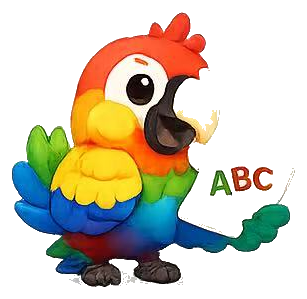
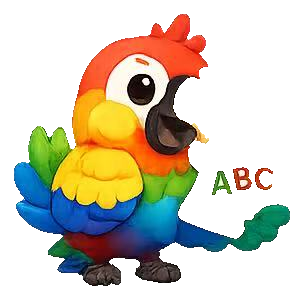
切图去白边 + 文字昵称随所选动物变(petN/applyPetText)
- 6 只透明头像重切，边缘洪填+收缩1px 去掉白边毛边
- 给每只伙伴加昵称(nick)，'小狐狸'文字统一改用 petN()(取名优先)
- 引导语/拍照提示/作业空状态/页脚等可见'小狐狸'随所选动物切换

diff --git a/math-analyzer.html b/math-analyzer.html
@@ -1166,11 +1166,11 @@
   <!-- ============ 视图：学习（hub）============ -->
   <div id="view-study" class="view">
     <div class="view-title">📚 学习</div>
-    <div class="fox-guide"><img class="fg-fox-img" data-func="homework" src="icons/pets/ic-fox-homework.png" alt="小狐狸"><span class="fg-text"><b>今天想学点什么？</b>小狐狸都在这儿陪着你～</span></div>
+    <div class="fox-guide"><img class="fg-fox-img" data-func="homework" src="icons/pets/ic-fox-homework.png" alt="小狐狸"><span class="fg-text"><b>今天想学点什么？</b><span class="pn">小狐狸</span>都在这儿陪着你～</span></div>
     <div class="study-grid">
       <!-- 错题辅导(搜题)入口已暂时隐藏；加回只需恢复下面这张卡：
       <div class="study-card sc-err" data-go="mistakes"><span class="sc-ico">📝</span><div class="sc-name">错题辅导</div><div class="sc-sub">拍卷子，一步步教懂</div></div> -->
-      <div class="study-card sc-dict" data-go="dictation"><img class="sc-ico-img" data-func="dict" src="icons/pets/ic-fox-dict.png" alt=""><div class="sc-name">听写小帮手</div><div class="sc-sub">小狐狸报读，你来写</div></div>
+      <div class="study-card sc-dict" data-go="dictation"><img class="sc-ico-img" data-func="dict" src="icons/pets/ic-fox-dict.png" alt=""><div class="sc-name">听写小帮手</div><div class="sc-sub"><span class="pn">小狐狸</span>报读，你来写</div></div>
       <div class="study-card sc-hw" data-go="homework"><img class="sc-ico-img" data-func="homework" src="icons/pets/ic-fox-homework.png" alt=""><div class="sc-name">今日任务</div><div class="sc-sub">记作业、打勾、攒经验</div></div>
     </div>
   </div>
@@ -1178,7 +1178,7 @@
   <!-- ============ 视图：错题辅导 ============ -->
   <div id="view-mistakes" class="view">
     <div class="view-title">📝 错题辅导</div>
-    <div class="fox-guide"><img class="fg-fox-img" data-func="mistakes" src="icons/pets/ic-fox-mistakes.png" alt="小狐狸"><span class="fg-text"><b>小狐狸来帮你分析错题吧！</b>拍张卷子，我一步一步教你弄懂～</span></div>
+    <div class="fox-guide"><img class="fg-fox-img" data-func="mistakes" src="icons/pets/ic-fox-mistakes.png" alt="小狐狸"><span class="fg-text"><b><span class="pn">小狐狸</span>来帮你分析错题吧！</b>拍张卷子，我一步一步教你弄懂～</span></div>
     <div class="mode-switch subject-switch" id="subject-switch">
       <button class="mode-btn active" data-subject="math">📐 数学</button>
       <button class="mode-btn" data-subject="english">🔤 英语</button>
@@ -1332,7 +1332,7 @@
   <!-- ============ 视图：听写 ============ -->
   <div id="view-dictation" class="view">
     <div class="view-title">🔊 听写小帮手</div>
-    <div class="fox-guide"><img class="fg-fox-img" data-func="dict" src="icons/pets/ic-fox-dict.png" alt="小狐狸"><span class="fg-text"><b>准备好了吗？</b>小狐狸来帮你听写，一个一个念给你写～</span></div>
+    <div class="fox-guide"><img class="fg-fox-img" data-func="dict" src="icons/pets/ic-fox-dict.png" alt="小狐狸"><span class="fg-text"><b>准备好了吗？</b><span class="pn">小狐狸</span>来帮你听写，一个一个念给你写～</span></div>
 
     <!-- 开始听写：主操作，醒目大按钮 -->
     <section class="card">
@@ -1498,7 +1498,7 @@
   </section>
 
   <footer>
-    小狐狸 AI 学习助手 · v53（错题大相机卡 + 听写大按钮 + 两行问候·移植示例）
+    <span class="pn">小狐狸</span>学习助手 · build 0617
   </footer>
 
   <!-- 底部导航：首页 / 学习 / 成长 / 我的 -->
@@ -2329,13 +2329,13 @@ $('btn-recognize').addEventListener('click', async () => {
   const original = btn.textContent;
   const texts = [];
   for (let i = 0; i < images.length; i++) {
-    btn.innerHTML = `<span class="spinner"></span>小狐狸在看 ${i + 1}/${images.length} 张…`;
+    btn.innerHTML = `<span class="spinner"></span>${petN()}在看 ${i + 1}/${images.length} 张…`;
     try {
       const t = await recognizeImage(images[i]);
       if (t && t.trim()) texts.push(t.trim());
     } catch (err) {
       btn.innerHTML = original; btn.disabled = false;
-      alert('第 ' + (i + 1) + ' 张小狐狸没看清：' + (err.message || err));
+      alert('第 ' + (i + 1) + ' 张' + petN() + '没看清：' + (err.message || err));
       return;
     }
   }
@@ -3014,6 +3014,7 @@ function go(view) {
   [...document.querySelectorAll('.bn-item')].forEach(b => b.classList.toggle('active', b.dataset.nav === tab));
   try { window.scrollTo(0, 0); } catch (_) {}
   if (typeof applyPetIcons === 'function') applyPetIcons();   // 功能图标跟随当前伙伴
+  if (typeof applyPetText === 'function') applyPetText();      // "小狐狸"等文字跟随当前伙伴昵称
   if (view !== 'dictation' && typeof dictStop === 'function') dictStop();   // 离开听写 → 停止报读
   if (view === 'home') renderHome();
   else if (view === 'petselect') renderPetSelect();
@@ -3186,7 +3187,7 @@ $('dict-reveal').addEventListener('click', () => {
 });
 $('dict-photo').addEventListener('change', async (e) => {
   const file = e.target.files && e.target.files[0]; e.target.value = ''; if (!file) return;
-  const lab = $('dict-photo-label'); const old = lab.textContent; lab.textContent = '小狐狸在看…';
+  const lab = $('dict-photo-label'); const old = lab.textContent; lab.textContent = petN() + '在看…';
   try {
     const dataURL = await downscaleDataURL(await fileToDataURL(file), 1500, 0.85);
     const words = await recognizeWordList(dataURL, $('dict-subject').value);
@@ -3195,8 +3196,8 @@ $('dict-photo').addEventListener('change', async (e) => {
       $('dict-input').value = (cur ? cur + '\n' : '') + words.join('\n');
       updateDictCount();
       lab.textContent = '已加 ' + words.length + ' 个 ✓'; setTimeout(() => { lab.textContent = old; }, 1600);
-    } else { alert('小狐狸没看清字词，换张清楚点的再拍～'); lab.textContent = old; }
-  } catch (err) { alert('小狐狸没看清：' + (err.message || err)); lab.textContent = old; }
+    } else { alert(petN() + '没看清字词，换张清楚点的再拍～'); lab.textContent = old; }
+  } catch (err) { alert(petN() + '没看清：' + (err.message || err)); lab.textContent = old; }
 });
 if (window.speechSynthesis) { try { speechSynthesis.getVoices(); speechSynthesis.onvoiceschanged = () => { try { speechSynthesis.getVoices(); renderDictVoices(); } catch (_) {} }; } catch (_) {} }
 
@@ -3299,13 +3300,17 @@ function renderAICard() {
  *  形象暂用 emoji 占位；待用户给 6 张单只透明 PNG 后可在 petEmoji() 处换成 <img>。
  */
 const PETS = [
-  { id: 'fox',      name: '学霸狐',     emoji: '🦊', type: '均衡型', skill: '全科经验加成 +5%', tint: '#FFEAD6' },
-  { id: 'owl',      name: '博士猫头鹰', emoji: '🦉', type: '阅读型', skill: '阅读经验加成 +5%', tint: '#ECE6F7' },
-  { id: 'rabbit',   name: '运动兔',     emoji: '🐰', type: '坚持型', skill: '连续打卡奖励 +5%', tint: '#E6F0FF' },
-  { id: 'panda',    name: '计算熊猫',   emoji: '🐼', type: '数学型', skill: '数学经验加成 +5%', tint: '#EAF4E2' },
-  { id: 'parrot',   name: '英语鹦鹉',   emoji: '🦜', type: '英语型', skill: '英语经验加成 +5%', tint: '#FFF0DE' },
-  { id: 'squirrel', name: '松鼠探险家', emoji: '🐿', type: '探索型', skill: '探索经验加成 +5%', tint: '#FBEDDD' },
+  { id: 'fox',      name: '学霸狐',     nick: '小狐狸', emoji: '🦊', type: '均衡型', skill: '全科经验加成 +5%', tint: '#FFEAD6' },
+  { id: 'owl',      name: '博士猫头鹰', nick: '小博士', emoji: '🦉', type: '阅读型', skill: '阅读经验加成 +5%', tint: '#ECE6F7' },
+  { id: 'rabbit',   name: '运动兔',     nick: '小兔',   emoji: '🐰', type: '坚持型', skill: '连续打卡奖励 +5%', tint: '#E6F0FF' },
+  { id: 'panda',    name: '计算熊猫',   nick: '熊猫',   emoji: '🐼', type: '数学型', skill: '数学经验加成 +5%', tint: '#EAF4E2' },
+  { id: 'parrot',   name: '英语鹦鹉',   nick: '鹦鹉',   emoji: '🦜', type: '英语型', skill: '英语经验加成 +5%', tint: '#FFF0DE' },
+  { id: 'squirrel', name: '松鼠探险家', nick: '小松鼠', emoji: '🐿', type: '探索型', skill: '探索经验加成 +5%', tint: '#FBEDDD' },
 ];
+// 伙伴昵称：用户取了名字就用名字，否则用该动物昵称（默认狐狸=小狐狸）。所有"小狐狸"文字都改用它
+function petN() { const c = DB.read(pKey('petName'), ''); const p = petOf(selectedPetId()); return c || (p ? p.nick : '小狐狸'); }
+// 把 HTML 里 class="pn" 的占位文字设为当前昵称（go/换伙伴时调用）
+function applyPetText() { document.querySelectorAll('.pn').forEach(el => { el.textContent = petN(); }); }
 const TASK_REWARDS = [
   { icon: '📝', name: '完成一项作业', xp: '+5 经验' },
   { icon: '🔥', name: '当天作业全做完', xp: '+20 经验' },
@@ -3341,6 +3346,7 @@ function applyPet(id) {
   DB.write(pKey('lvSeen'), levelInfo(totalXP()).level);
   syncPetStats();
   if (typeof applyPetIcons === 'function') applyPetIcons();   // 立刻把全 app 功能图标换成这只
+  if (typeof applyPetText === 'function') applyPetText();      // 文字昵称也立刻更新
 }
 function renamePet() {
   if (!selectedPetId()) return;
@@ -3499,7 +3505,7 @@ function renderHome() {
   const items = getDayItems(todayStr()), done = items.filter(x => x.done).length;
   const tasks = [
     { func: 'homework', name: '记作业 · 做作业', sub: items.length ? ('今天 ' + done + ' / ' + items.length + ' 完成') : '还没记今天的作业', go: 'homework' },
-    { func: 'dict', name: '练听写', sub: '拍生字表，小狐狸来报读', go: 'dictation' },
+    { func: 'dict', name: '练听写', sub: '拍生字表，' + petN() + '来报读', go: 'dictation' },
     // 错题讲解(搜题)入口已暂时隐藏 —— view-mistakes 代码保留，加回只需恢复这一行：
     // { func: 'mistakes', name: '错题讲解', sub: '拍卷子，AI 一步步教你', go: 'mistakes' },
   ];
@@ -3696,7 +3702,7 @@ function renderHomework() {
   $('hw-progress').textContent = items.length ? `完成 ${done}/${items.length}` : '今天还没记作业';
   $('hw-bar-fill').style.width = pct + '%';
   const list = $('hw-list');
-  if (!items.length) { list.innerHTML = `<div class="empty-fox"><img src="icons/pets/${selectedPetId() || 'fox'}.png" alt=""><div class="ef-text">今天还没有作业哦～<br>在上面记一下，或点 📷 拍张老师发的作业，小狐狸帮你拆成清单！</div></div>`; return; }
+  if (!items.length) { list.innerHTML = `<div class="empty-fox"><img src="icons/pets/${selectedPetId() || 'fox'}.png" alt=""><div class="ef-text">今天还没有作业哦～<br>在上面记一下，或点 📷 拍张老师发的作业，${petN()}帮你拆成清单！</div></div>`; return; }
   const groups = {};
   items.forEach(i => { (groups[i.subject] = groups[i.subject] || []).push(i); });
   list.innerHTML = HW_SUBJECTS.filter(s => groups[s]).map(s => `
@@ -3773,7 +3779,7 @@ $('hw-photo').addEventListener('change', async (e) => {
   const file = e.target.files && e.target.files[0];
   e.target.value = '';
   if (!file) return;
-  const label = $('hw-photo-label'); const old = label.textContent; label.textContent = '小狐狸在整理…';
+  const label = $('hw-photo-label'); const old = label.textContent; label.textContent = petN() + '在整理…';
   try {
     const dataURL = await downscaleDataURL(await fileToDataURL(file), 1500, 0.82);   // 缩小但保留清晰度，利于手写识别
     let items = null;
@@ -3787,10 +3793,10 @@ $('hw-photo').addEventListener('change', async (e) => {
     // 回退：老办法（OCR 按行拆，全部归到当前选中的科目）
     const raw = await recognizeImage({ file, dataURL });
     const lines = cleanOCRText(raw).split(/\n+/).map(s => s.replace(/^[\s\-•·.、)）\d]+/, '').trim()).filter(s => s.length >= 2);
-    if (!lines.length) alert('小狐狸没看清，换张清楚点的再拍～');
+    if (!lines.length) alert(petN() + '没看清，换张清楚点的再拍～');
     else addHomeworkItems($('hw-add-subject').value, lines, 'teacher');
     label.textContent = old;
-  } catch (err) { alert('小狐狸没看清：' + (err.message || err)); label.textContent = old; }
+  } catch (err) { alert(petN() + '没看清：' + (err.message || err)); label.textContent = old; }
 });
 
 /* ---- 教材进度卡（按当前科目 + 当前孩子的年级显示）---- */
